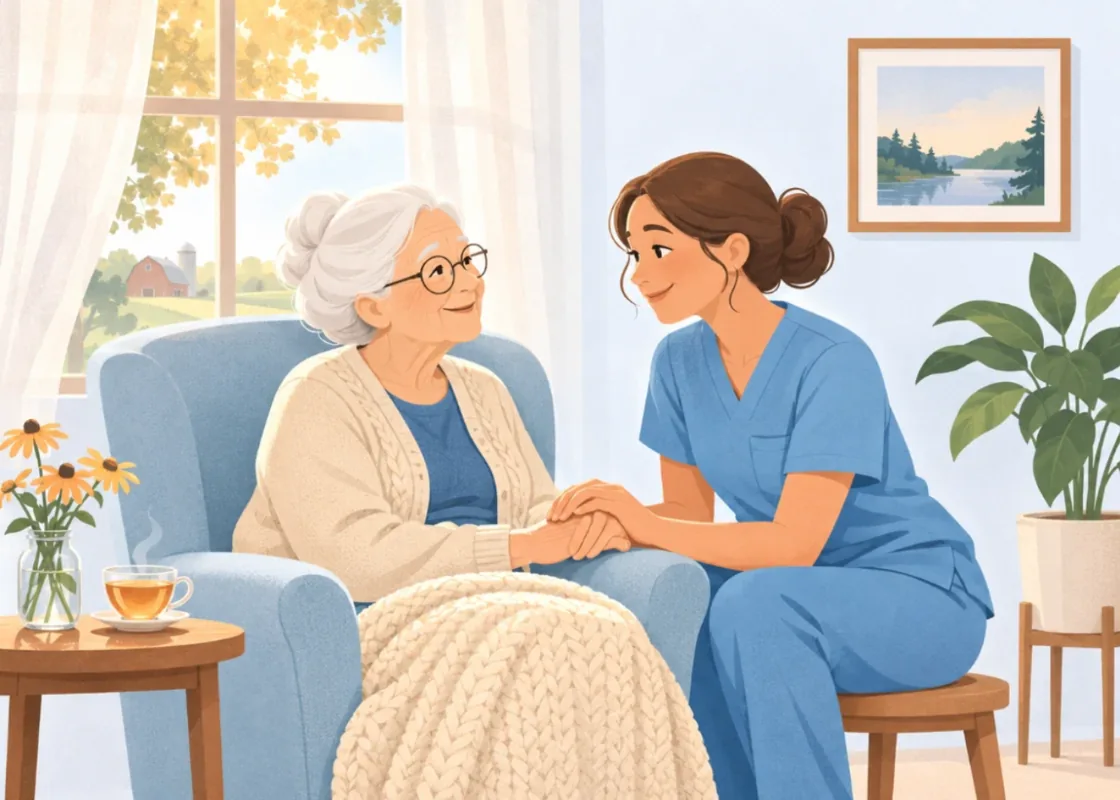
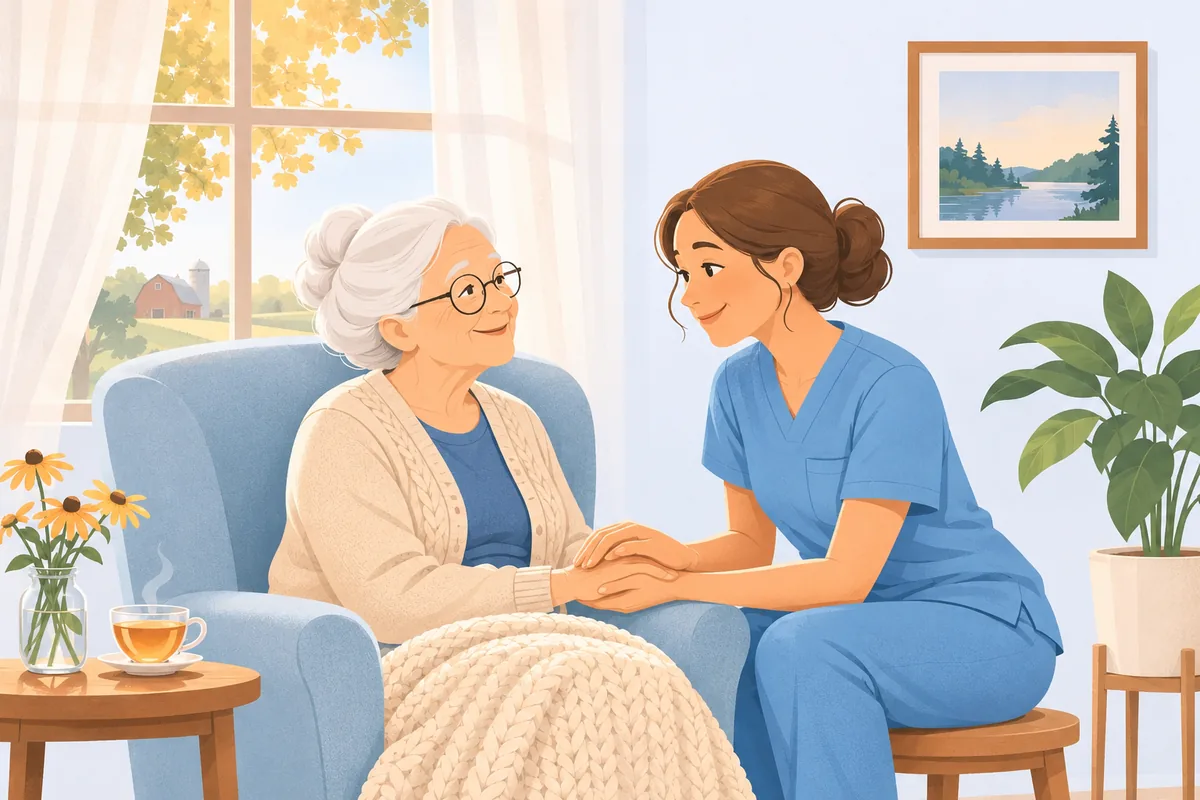
Use full-resolution caregiving picture from Christian (3:2, 1200x800)
Claude-Session: https://claude.ai/code/session_01TBSkio2HuAja26dnRStgNm

diff --git a/index.html b/index.html
@@ -390,7 +390,7 @@ footer p{max-width:none}
       <p class="muted">That's where fights start, citations happen and good staff quit. Steady Shift gives everyone the same calm starting point: what the rule says, what your home decided, and the words to say it without blaming anyone. The system work happens quietly, so caregivers can stay with the person in front of them.</p>
     </div>
     <div class="flow">
-      <img class="art" src="images/care-together.webp" width="560" height="400" loading="lazy" decoding="async" alt="Illustration: in a sunny living room, a caregiver in blue scrubs sits beside an older woman in an armchair and holds her hand. They smile at each other.">
+      <img class="art" src="images/care-together.webp" width="600" height="400" loading="lazy" decoding="async" alt="Illustration: in a sunny living room with a farm view out the window, a caregiver in blue scrubs sits beside an older woman in a blue armchair and holds her hands. They smile at each other.">
       <div><b>Up</b><span>Caregivers raise concerns in writing without going around their manager. Patterns reach the owner without naming who asked.</span></div>
       <div><b>Down</b><span>Owners and managers send policy changes as short cards with the reason attached, and see who has read them.</span></div>
       <div><b>Across</b><span>Shift handoffs stay factual, so the next shift starts with information instead of tension.</span></div>

diff --git a/images/README.md b/images/README.md
@@ -4,4 +4,4 @@ real resident or staff information. To refresh them, open `demo.html#card`, `#re
 or `#home`, screenshot the phone at 2x, and save as WebP about 600px wide.
 
 `care-together.webp` is an AI-generated illustration (made-up people, no real residents), made in ChatGPT for this
-site in the Sky and Sun palette, then resized to 1120x800 WebP.
+site in the Sky and Sun palette, then resized to 1200x800 WebP.
